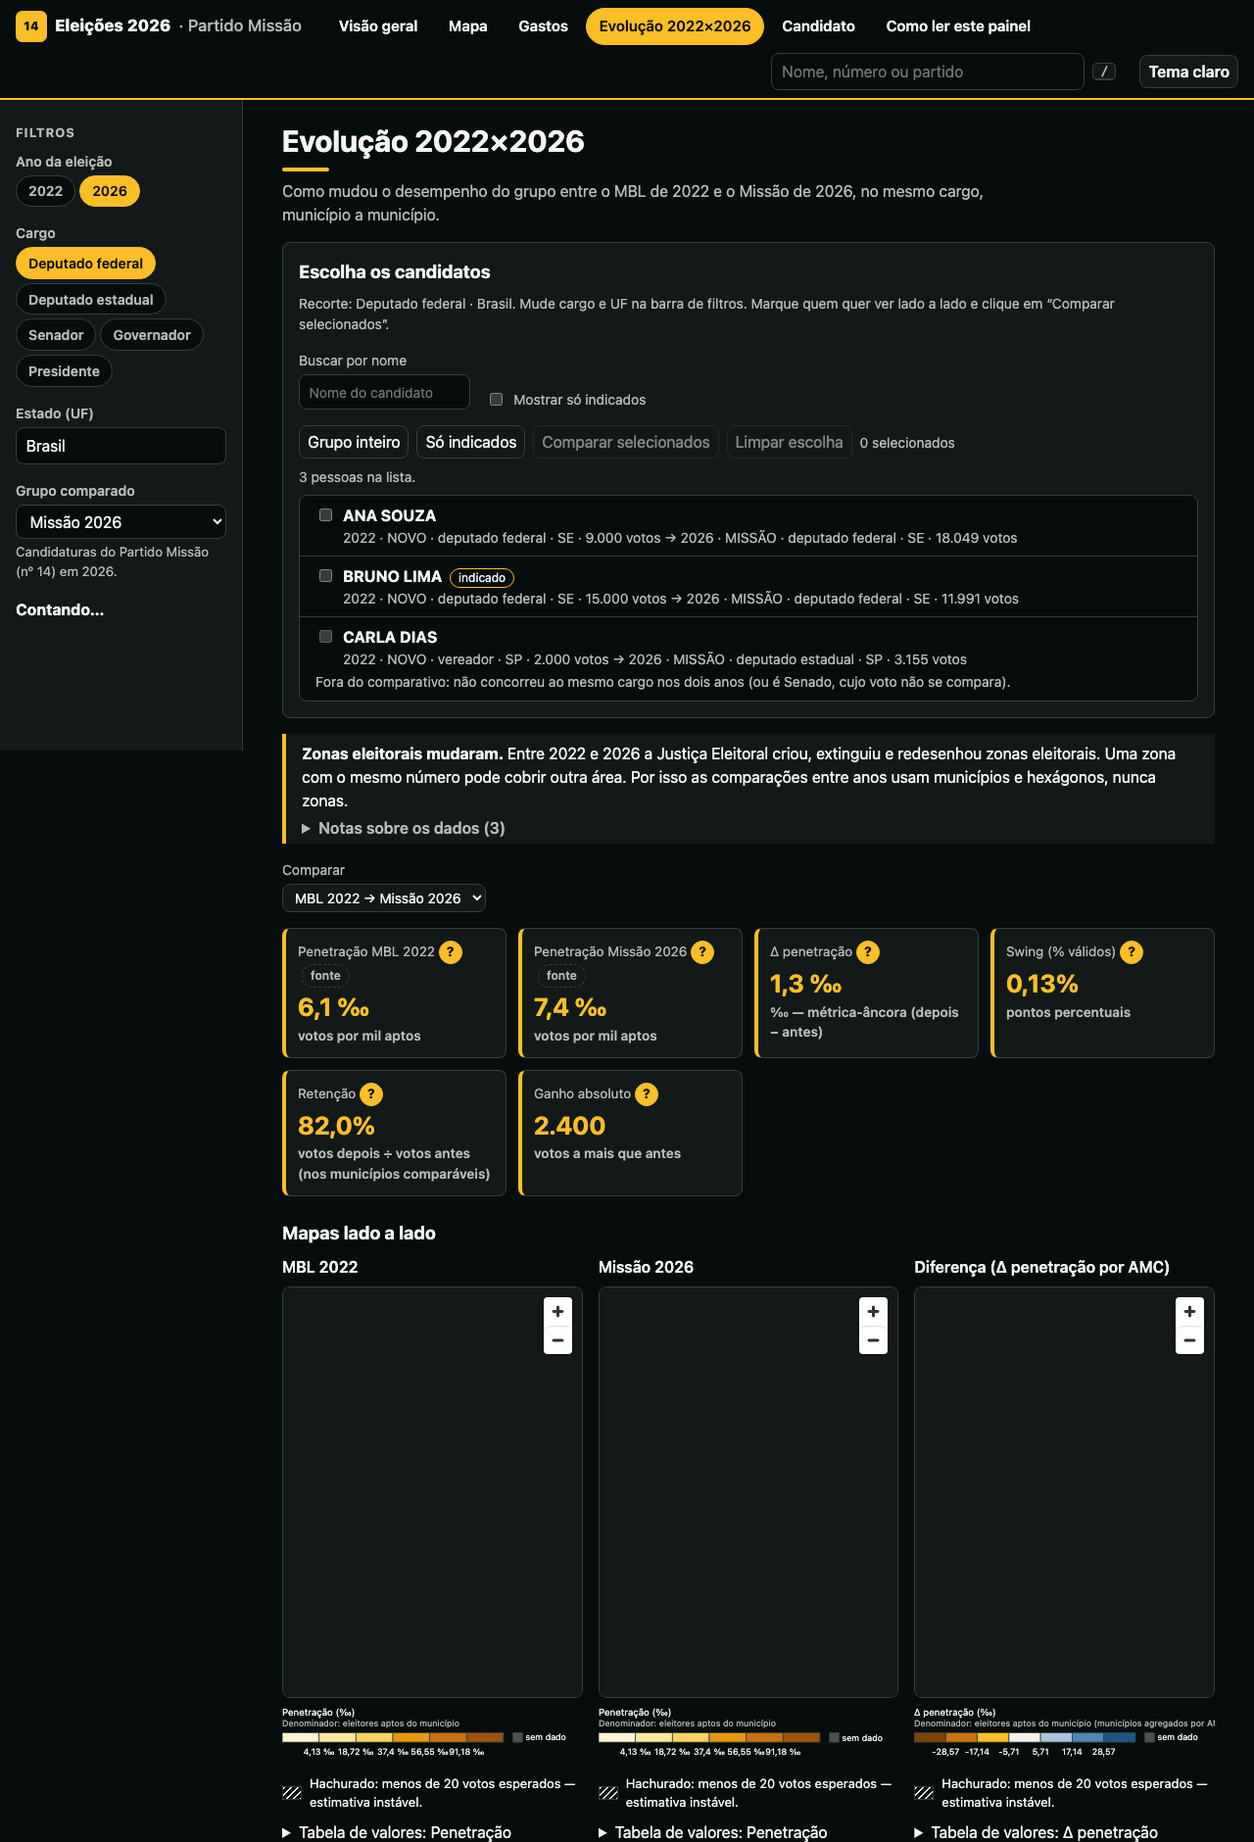
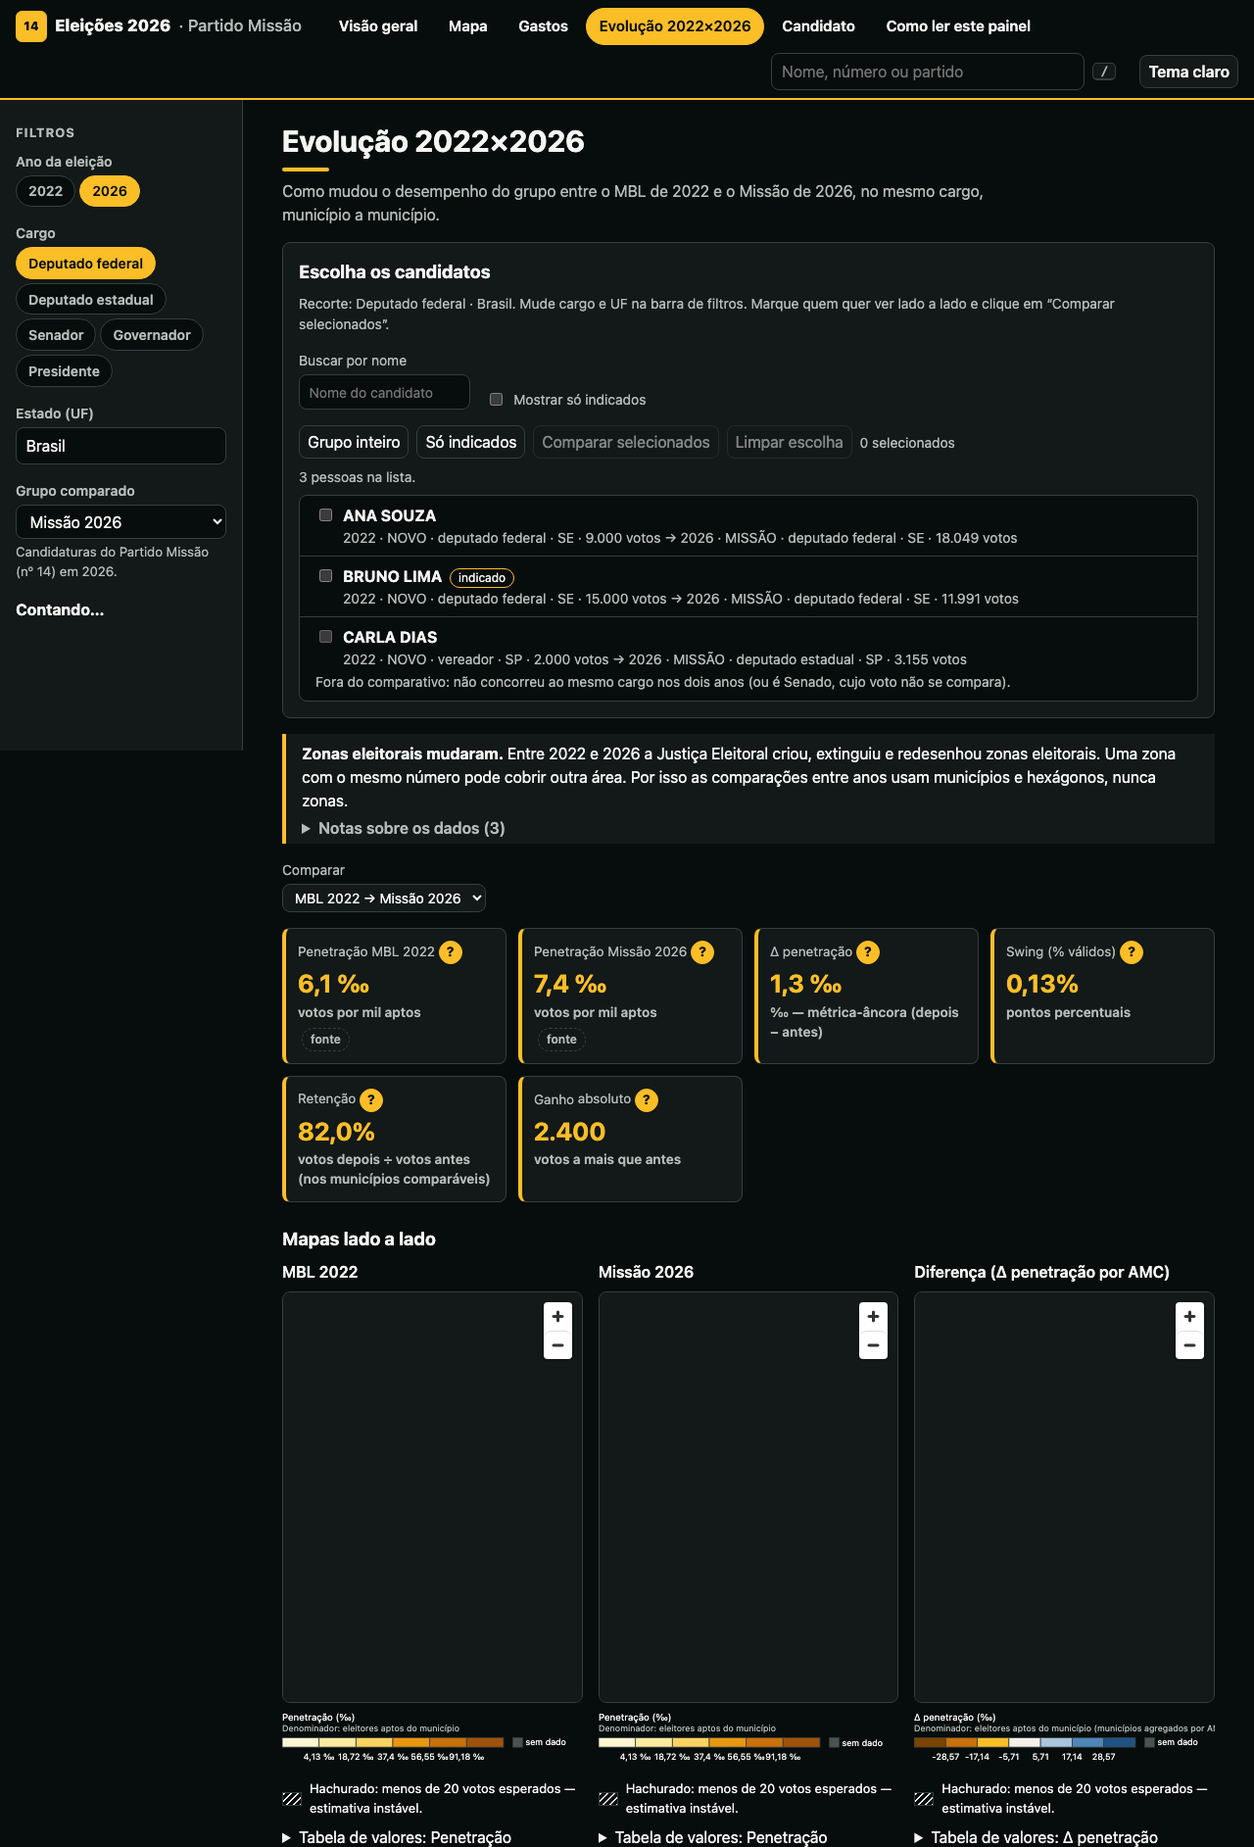
fix(web): acabamento da verificação em produção — ranking, filtros no celular, ?/fonte e roteiro de produção (T-W13)

diff --git a/apps/web/tests/e2e/producao.spec.ts b/apps/web/tests/e2e/producao.spec.ts
@@ -25,6 +25,8 @@ const VIEWPORTS = [
 async function pronto(page: Page): Promise<void> {
   await page.waitForLoadState("networkidle", { timeout: 60_000 }).catch(() => undefined);
   await expect(page.locator("main h1")).toBeVisible({ timeout: 30_000 });
+  // O overlay só aparece após 200 ms: o que prova "carregou" é a reserva de espaço ter sumido.
+  await expect(page.locator(".reserva-carga")).toHaveCount(0, { timeout: 60_000 });
   await expect(page.getByRole("status")).toHaveCount(0, { timeout: 60_000 });
 }
 
@@ -38,7 +40,8 @@ for (const vp of VIEWPORTS) {
         await expect(page.getByRole("alert")).toHaveCount(0);
         await expect(page.locator("body")).not.toContainText("Não foi possível carregar");
         if (tela === "mapa" || tela === "candidato") await page.waitForTimeout(2500);
-        await page.screenshot({ path: `${IMG}/item7-${vp.nome}-${nome}-${tela}.png` });
+        // Só o Renan Santos vai ao repositório (o repositório não precisa de 60 imagens); os demais provam-se pelo teste.
+        if (nome === "renan") await page.screenshot({ path: `${IMG}/item7-${vp.nome}-${nome}-${tela}.jpg`, type: "jpeg", quality: 55 });
       });
     }
   }
@@ -86,6 +89,7 @@ for (const vp of VIEWPORTS) {
       await foto(page, "item3-gastos-hover");
       // foco por teclado
       await page.keyboard.press("Escape");
+      await c.blur();
       await c.focus();
       await expect(page.locator(".tooltip:visible").first()).toContainText("Despesa paga");
     });
@@ -103,6 +107,9 @@ for (const vp of VIEWPORTS) {
       await fonte.focus();
       await expect(page.locator(".fonte-painel:visible").first()).toBeVisible();
       await foto(page, "item4-fonte");
+      // o texto do painel quebra dentro dele (nada transborda nem é cortado)
+      const sobra = await page.locator(".fonte-painel:visible").first().evaluate((el) => el.scrollWidth - el.clientWidth);
+      expect(sobra).toBeLessThanOrEqual(1);
       // o chip não pode quebrar de linha dentro do 1º cartão
       const h1 = await page.locator(".kpi").first().evaluate((el) => (el.querySelector(".fonte-botao") as HTMLElement).getBoundingClientRect().height);
       expect(h1).toBeLessThan(40);
@@ -142,8 +149,21 @@ for (const vp of VIEWPORTS) {
       await page.keyboard.press("Escape");
       const busca = page.getByPlaceholder("Nome, número ou partido");
       await busca.fill("renan");
-      await expect(page.locator("[role=option]").filter({ hasText: /RENAN SANTOS/i }).first()).toBeVisible({ timeout: 15_000 });
+      await expect(page.locator("[role=option]").first()).toContainText(/RENAN SANTOS/i, { timeout: 15_000 });
       await foto(page, "item8-busca");
+    });
+
+    test("item8b deep-link só com cand= ajusta os filtros ao candidato", async ({ page }) => {
+      await page.goto("/#/mapa?cand=2026%3A190002544120");
+      await expect(page.locator("[data-mapa-pronto='sim']")).toBeVisible({ timeout: 90_000 });
+      if (vp.width < 1024) {
+        // Celular: os filtros ficam recolhidos; o botão resume o recorte, que tem de ser o do candidato.
+        await expect(page.getByRole("button", { name: /^Filtros:/ })).toContainText("Governador · RJ");
+        await page.getByRole("button", { name: /^Filtros:/ }).click();
+      }
+      await expect(page.getByRole("radio", { name: "Governador" })).toBeChecked();
+      await expect(page.locator("input[name=uf]")).toHaveValue(/Rio de Janeiro/);
+      await foto(page, "item8b-filtros-seguem-candidato");
     });
 
     test("item9 mapa do candidato mostra só a região dele", async ({ page }) => {

diff --git a/apps/web/src/main.ts b/apps/web/src/main.ts
@@ -3,6 +3,7 @@ import "./estilo.css";
 import { render as renderBusca } from "./componentes/busca/busca";
 import { render as renderFiltros } from "./componentes/filtros/filtros";
 import { criarCliente } from "./dados/cliente";
+import { ROTULO_CARGO } from "./filtros-logica";
 import { definirAjustadorDeRecorte } from "./telas/recorte";
 import { criarSobreposicao, definirSobreposicaoGlobal } from "./componentes/ui/sobreposicao";
 import { cssDasCores, TEMAS } from "./paletas";
@@ -66,8 +67,18 @@ function montar(raiz: HTMLElement): void {
   ligarTema(botaoTema);
   const lateral = el("aside", { className: "lateral" });
   lateral.setAttribute("aria-label", "Filtros");
-  const areaFiltros = el("div");
-  lateral.append(el("h2", { textContent: "Filtros" }), areaFiltros);
+  const areaFiltros = el("div", { id: "area-filtros" });
+  // Só no celular: sem o botão os filtros ocupam a primeira tela inteira e empurram o conteúdo para baixo.
+  const alternar = el("button", { type: "button", className: "lateral-alternar" });
+  alternar.setAttribute("aria-controls", "area-filtros");
+  alternar.setAttribute("aria-expanded", "false");
+  alternar.addEventListener("click", () => {
+    const aberto = lateral.dataset["aberto"] !== "sim";
+    lateral.dataset["aberto"] = aberto ? "sim" : "nao";
+    alternar.setAttribute("aria-expanded", String(aberto));
+  });
+  lateral.dataset["aberto"] = "nao";
+  lateral.append(el("h2", { textContent: "Filtros" }), alternar, areaFiltros);
 
   const principal = el("main", { id: "principal", tabIndex: -1 });
   const rodape = el("footer");
@@ -110,6 +121,12 @@ function montar(raiz: HTMLElement): void {
     telaAnterior = e.tela;
   };
   definirAjustadorDeRecorte((f) => { store.ajustar(f); });
+  const resumo = (e: Readonly<Estado>): void => {
+    const f = e.filtros;
+    alternar.textContent = `Filtros: ${ROTULO_CARGO[f.cargo]} · ${f.uf === "BR" ? "Brasil" : f.uf} · ${String(f.ano)} ▾`;
+  };
+  resumo(store.obter());
+  store.assinar(resumo);
   store.assinar(desenhar);
   ligarStoreAoHash(store, window);
 

diff --git a/apps/web/src/componentes/graficos/barras.ts b/apps/web/src/componentes/graficos/barras.ts
@@ -28,8 +28,15 @@ const DIR = 60;
 const TOPO = 8;
 const BAIXO = 28;
 const LINHA = 26;
-/** Largura média de um caractere do rótulo (12 px sans) — estimativa; a quebra de linha cobre o erro. */
-const PX_POR_CHAR = 6.6;
+/**
+ * Largura estimada do rótulo (12 px sans). Maiúsculas e dígitos são bem mais largos que minúsculas:
+ * nomes de urna vêm em CAIXA ALTA, e a média única cortava o começo do nome no ranking.
+ */
+export function larguraEstimada(texto: string): number {
+  let w = 0;
+  for (const c of texto) w += c === " " ? 3.6 : /[A-ZÀ-Ý0-9]/.test(c) ? 8.2 : 6.4;
+  return w;
+}
 
 /** Quebra por palavras em linhas de até `max` caracteres; palavra maior que `max` fica inteira (nunca corta). */
 export function quebrarLinhas(texto: string, max: number): string[] {
@@ -59,9 +66,11 @@ export function desenhar(container: HTMLElement, dados: readonly Barra[], o: Opc
   
   const rot = (b: Barra, i: number): string => (o.prefixo ? o.prefixo(b, i) : "") + b.rotulo;
   // A margem esquerda acomoda o nome mais longo até 38% da largura; o que passar disso quebra em até 3 linhas.
-  const maiorRotulo = Math.max(...dados.map((d, i) => rot(d, i).length));
-  const ESQ = Math.round(Math.min(Math.max(ESQ_MIN, maiorRotulo * PX_POR_CHAR + 12), w * 0.38));
-  const maxChars = Math.max(10, Math.floor((ESQ - 12) / PX_POR_CHAR));
+  const maiorRotulo = Math.max(...dados.map((d, i) => larguraEstimada(rot(d, i))));
+  const ESQ = Math.round(Math.min(Math.max(ESQ_MIN, maiorRotulo + 12), w * 0.38));
+  // Caracteres que cabem na margem, medidos pela largura média do próprio texto desta lista.
+  const mediaPx = maiorRotulo / Math.max(...dados.map((d, i) => rot(d, i).length));
+  const maxChars = Math.max(10, Math.floor((ESQ - 12) / mediaPx));
   const linhasDe = dados.map((d, i) => quebrarLinhas(rot(d, i), maxChars));
   const alturaLinha = linhasDe.some((l) => l.length > 1) ? Math.max(LINHA, 14 * Math.max(...linhasDe.map((l) => l.length)) + 8) : LINHA;
   const h = TOPO + BAIXO + dados.length * alturaLinha;

diff --git a/apps/web/src/estilo.css b/apps/web/src/estilo.css
@@ -84,7 +84,11 @@ nav a[aria-current="page"] { background: var(--cor-acento); color: var(--cor-tex
 select, input[type="text"], input[type="search"] { font: inherit; padding: 0.4rem 0.6rem; color: var(--cor-texto); background: var(--cor-fundo); border: 1px solid var(--cor-borda); border-radius: var(--raio); min-width: 0; max-width: 100%; }
 select:hover { border-color: var(--cor-destaque); }
 main { min-width: 0; padding: var(--esp-3); min-height: 70dvh; }
+.lateral-alternar { width: 100%; text-align: left; min-height: 2.5rem; font-weight: 600; }
+.lateral[data-aberto="nao"] #area-filtros { display: none; }
 @media (min-width: 64rem) {
+  .lateral-alternar { display: none; }
+  .lateral[data-aberto="nao"] #area-filtros { display: block; }
   .corpo { grid-template-columns: var(--largura-lateral) minmax(0, 1fr); }
   .lateral { position: sticky; top: var(--altura-topo); height: calc(100dvh - var(--altura-topo)); overflow: auto; border-bottom: 0; border-right: 1px solid var(--cor-borda); padding: var(--esp-4) var(--esp-3); }
   .lateral h2 { display: block; }
@@ -149,8 +153,9 @@ footer p { margin: var(--esp-1) 0; }
 .kpi:hover{background:var(--cor-superficie-alta);border-color:var(--cor-destaque)}
 .kpi>dt{color:var(--cor-texto-suave);font-size:.85rem}
 .kpi>dd{margin:0;font-size:1.6rem;font-weight:700;color:var(--cor-destaque)}
+.kpi-fim{white-space:nowrap}
 .kpi>dd.fonte-linha{margin:.35rem 0 0;font-size:.75rem;font-weight:400}
-.fonte,.fonte-botao{white-space:nowrap}
+.fonte-botao{white-space:nowrap}
 .kpi>dd.unidade{margin:0;font-weight:600;font-size:.85rem;color:var(--cor-texto-suave)}
 .grafico .marca{cursor:pointer;transition:filter .12s}
 .grafico .marca:hover{filter:brightness(1.2);stroke:var(--cor-texto);stroke-width:1.5}

diff --git a/apps/web/tests/e2e/redesenho.spec.ts b/apps/web/tests/e2e/redesenho.spec.ts
@@ -81,3 +81,28 @@ test("tema claro opcional lembrado e com a mesma estrutura", async ({ page }) =>
   await page.getByRole("button", { name: "Tema escuro" }).click();
   await expect(page.locator("html")).not.toHaveAttribute("data-tema", "claro");
 });
+
+test("celular: filtros recolhidos mostram o conteúdo logo, e o botão resume e abre os filtros", async ({ page }) => {
+  await simularApi(page);
+  await page.setViewportSize({ width: 390, height: 844 });
+  await page.goto("/#/visao-geral?cargo=senador&uf=SE");
+  const botao = page.getByRole("button", { name: /Filtros/ });
+  await expect(botao).toBeVisible();
+  await expect(botao).toHaveAttribute("aria-expanded", "false");
+  await expect(botao).toContainText("Senador");
+  await expect(botao).toContainText("SE");
+  await expect(page.locator("form.filtros")).toBeHidden();
+  const topo = await page.locator("main h1").evaluate((e) => e.getBoundingClientRect().top);
+  expect(topo).toBeLessThan(400);
+  await botao.click();
+  await expect(botao).toHaveAttribute("aria-expanded", "true");
+  await expect(page.locator("form.filtros")).toBeVisible();
+});
+
+test("desktop: sem botão de filtros, a lateral fica sempre aberta", async ({ page }) => {
+  await simularApi(page);
+  await page.setViewportSize({ width: 1440, height: 900 });
+  await page.goto("/#/visao-geral");
+  await expect(page.locator("form.filtros")).toBeVisible();
+  await expect(page.locator(".lateral-alternar")).toBeHidden();
+});

diff --git a/apps/web/tests/unit/graficos.test.ts b/apps/web/tests/unit/graficos.test.ts
@@ -36,7 +36,22 @@ describe("formatação pt-BR", () => {
   });
 });
 
+describe("barras: nome inteiro à vista", () => {
+  it("nome em MAIÚSCULAS com posição não é cortado: a margem esquerda cobre a largura estimada do texto", () => {
+    barras.render(el, [{ rotulo: "MARCELO BRIGADEIRO", valor: 5 }, { rotulo: "BEN MENDES", valor: 3 }], { titulo: "T", prefixo: (_, i) => `${String(i + 1)}. ` });
+    const x = Number(el.querySelector("rect.marca")?.getAttribute("x"));
+    // 21 caracteres, quase todos maiúsculos: ~8 px cada em 12 px de fonte
+    expect(x).toBeGreaterThanOrEqual(21 * 8);
+  });
+});
+
 describe("kpi", () => {
+  it("o ? fica colado à última palavra do rótulo (nunca sozinho na linha de baixo)", () => {
+    kpi.render(el, [{ rotulo: "Votação nominal do grupo", valor: 1, formato: "inteiro", ajuda: "a" }], { ajuda: () => Object.assign(document.createElement("button"), { textContent: "?" }) });
+    const fim = el.querySelector(".kpi > dt > .kpi-fim");
+    expect(fim?.textContent).toBe("grupo ?");
+    expect(el.querySelector(".kpi > dt")?.textContent).toBe("Votação nominal do grupo ?");
+  });
   it("põe o chip de fonte na linha própria (nunca quebra o título ao lado do ?)", () => {
     kpi.render(el, [{ rotulo: "Custo por voto contratado", valor: 1, formato: "moeda", ajuda: "a", fonte: "f" }], {
       ajuda: () => document.createTextNode("?"),

diff --git a/apps/web/src/componentes/graficos/kpi.ts b/apps/web/src/componentes/graficos/kpi.ts
@@ -32,8 +32,14 @@ export function render(container: HTMLElement, dados: readonly Kpi[], opcoes: Op
       const cartao = document.createElement("div");
       cartao.className = "kpi";
       const dt = document.createElement("dt");
-      dt.textContent = k.rotulo;
-      if (k.ajuda !== undefined && opcoes.ajuda) dt.append(" ", opcoes.ajuda(k.ajuda));
+      if (k.ajuda !== undefined && opcoes.ajuda) {
+        // A última palavra e o "?" formam um bloco que não se separa: o "?" nunca fica sozinho na linha de baixo.
+        const corte = k.rotulo.lastIndexOf(" ") + 1;
+        const fim = document.createElement("span");
+        fim.className = "kpi-fim";
+        fim.append(k.rotulo.slice(corte), " ", opcoes.ajuda(k.ajuda));
+        dt.append(k.rotulo.slice(0, corte), fim);
+      } else dt.textContent = k.rotulo;
       const dd = document.createElement("dd");
       dd.textContent = FORMATOS[k.formato](k.valor);
       cartao.append(dt, dd);

diff --git a/docs/registro/handoffs/frontend-T-W13.md b/docs/registro/handoffs/frontend-T-W13.md
@@ -1,0 +1,46 @@
+# Handoff frontend — T-W13 (verificação final em produção + acabamento)
+
+Branch `fix/frontend-acabamento` (a partir de `origin/main` @897232d, T-B11 incluso). Capturas em
+`docs/registro/handoffs/img/T-W13/` (1440 e 390 px; `item<N>-…`). Verificação reproduzível:
+`E2E_PROD=1 pnpm exec playwright test producao --config=playwright.prod.config.ts`
+(`E2E_BASE=http://localhost:4173` aponta o mesmo roteiro para um `vite preview` local com `API_ALVO` = produção).
+
+**Como ler a coluna "onde":** *prod* = verificado na produção como está hoje; *local+prod-API* = o código novo
+deste PR, servido localmente contra a API de produção (só entra em produção após merge e deploy).
+
+| # | Pedido | Status | Onde / evidência |
+|---|---|---|---|
+| 1 | Nomes completos no ranking | **corrigido** | Em prod o começo do nome era cortado ("3. MARCELO BRIGADEIRO" saía como "ARCELO…"): a margem usava 6,6 px/char, mas nomes de urna são CAIXA ALTA (~8,2 px). Agora `larguraEstimada` por caractere. local+prod-API · `item1-ranking-*` |
+| 2 | Mapa de presidente carrega (Brasil todo; exterior à parte) | ok | prod · `item2-mapa-presidente-*` ("Votos no exterior: 8.580 (fora do mapa)") |
+| 3 | Gastos: hover/foco/toque com tooltip completo, % público vindo de `/gastos` | **corrigido** | `pontosDeGastos` não junta mais com `/candidatos` (some uma chamada de 500 itens); Partido, Resultado e **% recursos públicos** vêm do `/gastos`. Em prod hoje o balão ainda não tem a linha % (deploy pendente). local+prod-API · `item3-gastos-hover-*`; foco por teclado coberto no teste |
+| 4 | "?" e "fonte" legíveis/bonitos; chip não quebra linha | **corrigido** | chip "fonte" foi para linha própria no cartão; o "?" fica colado à última palavra do rótulo (`.kpi-fim`); painel da fonte quebra o texto longo da regra sem transbordar. local+prod-API · `item4-ajuda-*`, `item4-fonte-*` |
+| 5 | Tela toda, responsivo, paleta Missão | **corrigido** | prod já usava a largura toda e a paleta (`--cor-destaque #fcbe26` sobre preto), sem rolagem horizontal. No celular os filtros ocupavam a 1ª tela inteira: agora recolhem num botão-resumo ("Filtros: Governador · RJ · 2026 ▾"), só < 64rem. local+prod-API · `item5-layout-*` |
+| 6 | "Carregando" em overlay de tela cheia | ok | overlay cobre exatamente 1440×900 / 390×844 (teste mede o `boundingBox`) · `item6-overlay-*` |
+| 7 | Nada de "Não foi possível carregar…" nos casos válidos | ok | **prod**: Renan Santos, Kim, Guto Zacarias, Capitão Contar (senador), Coronel Busnello (governador RJ) e deputado estadual PE × 5 telas × 1440/390 = 60 combinações, 0 alertas. Só o Renan tem captura no repositório (`item7-*-renan-*`); os demais provam-se pelo teste |
+| 8 | Filtros dependentes (`/candidatos/ufs`) + busca global com sugestões | **corrigido** | UF só lista estados com candidatura no cargo (governador do Missão: 9 UFs + Brasil, em vez de 28); UF sem candidatura volta a Brasil; deep-link só com `cand=` ajusta cargo/UF/ano/grupo ao candidato sem redesenhar a tela (`store.ajustar`). A busca pedia 8 itens e a API não ordena por relevância (Renan Santos, 2,6 mi de votos, ficava fora dos 8 primeiros de 56): agora pede 40 e ordena (nome começa pela consulta → mais votos → 2026). local+prod-API · `item8-*`, `item8b-*` |
+| 9 | Mapa só com a região do candidato | ok | prod: presidente → país (`data-abrangencia='pais'`), deputado estadual PE → `PE` · `item9-mapa-estadual-*` |
+| 10 | Evolução: escolher/buscar/filtrar candidatos (`pessoas=`) | **pendente (backend)** | A UI está pronta (busca por nome, "só indicados", marcar e "Comparar selecionados"), mas **`GET /api/evolucao/pessoas` devolve `total: 0` em produção para qualquer filtro** (`?q=guto`, `?cargo=DEPUTADO FEDERAL&uf=SP`, sem filtro) — a lista fica vazia ("Nenhuma pessoa encontrada"). `/comparativo?comparacao=evolucao_missao` funciona. Precisa do backend. `item10-evolucao-*` |
+| 11 | Ficha: total gasto, links oficiais (verificado/nota) e "fonte" por número | ok | prod: 14 links `tse.jus.br`, 5 botões "fonte", bloco de gastos completo · `item11-ficha-*` |
+| 12 | "Todos os cargos" na Visão geral nunca engana | ok | Não existe opção "todos": o cargo é sempre enviado e `store.ts` documenta o porquê. Nada a mudar |
+
+## O que mudou (código)
+- `/candidatos/ufs`: `cliente.ufs`, tipo `RespostaUfs`, `opcoesDeUf(consulta, disponiveis)`, filtros dependentes (`filtros.ts`).
+- `store.ajustar` + `telas/recorte.ts` (`seguirCandidato`): recorte dos filtros segue o candidato aberto (mapa e ficha); a lista do seletor da ficha usa o recorte do candidato.
+- `gastos-logica.pontosDeGastos(g, base)` e `telas/gastos.ts`: só `/gastos`.
+- `busca-logica.ordenarSugestoes`, `LIMITE_BUSCA=40`, `MAX_SUGESTOES=8`.
+- `barras.larguraEstimada`; `kpi.ts` (chip fonte em linha própria, `.kpi-fim`); botão de filtros no celular (`main.ts`, `estilo.css`).
+- `api.d.ts` regenerado do OpenAPI atual (estava defasado: sem `/candidatos/ufs` e sem partido/resultado/%público em `/gastos`); fixtures `ufs.json` e `gastos.json` atualizadas.
+- Roteiro de produção: `tests/e2e/producao.spec.ts` + `playwright.prod.config.ts` (fora do CI: `E2E_PROD=1`).
+
+## Pendências / para o orquestrador
+1. **Backend:** `/evolucao/pessoas` vazio em produção (item 10). Sem isso a Evolução só compara o grupo inteiro.
+2. **Backend (sugestão):** `/busca` não ordena por relevância/votos; o front compensa pedindo 40 itens, mas ordenar no servidor é o certo (e permitiria `limite=8` de novo).
+3. **Deploy:** itens 1, 3, 4, 5 e 8 só aparecem em produção depois do merge/deploy deste PR; verificados localmente com a API de produção.
+4. A API já expõe os grupos `mbl_2026` e `mbl_2022_indicados` (em `/meta`), que o seletor "Grupo comparado" ainda não oferece (`GRUPOS` no store tem só `missao_2026` e `mbl_2022`). Fora do escopo de T-W13; vale um brief.
+
+## Como verificar
+```bash
+cd apps/web && pnpm exec tsc --noEmit && pnpm exec eslint src tests && pnpm exec vitest run   # 292 testes
+pnpm exec playwright test                                                                      # 57 (mock), 89 fora do CI
+E2E_PROD=1 pnpm exec playwright test producao --config=playwright.prod.config.ts               # contra produção
+```
